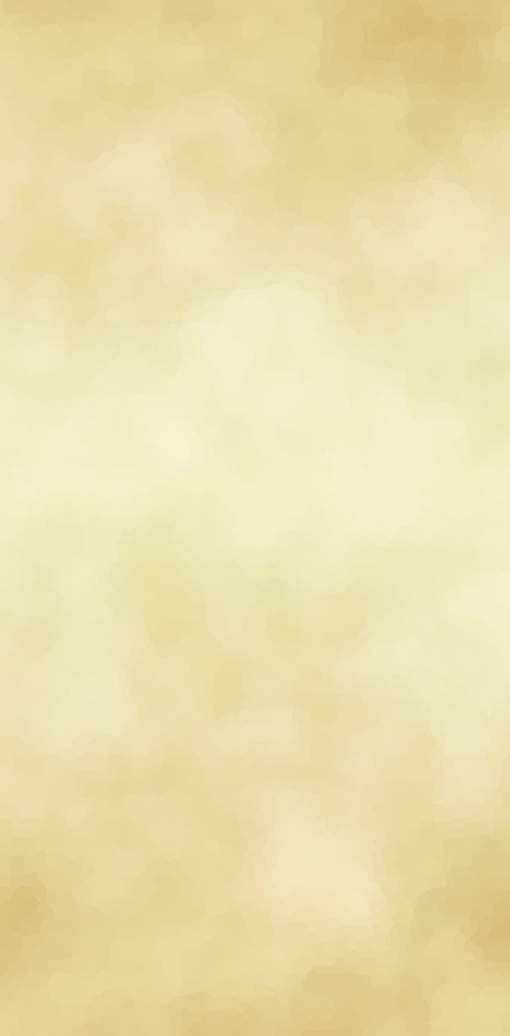
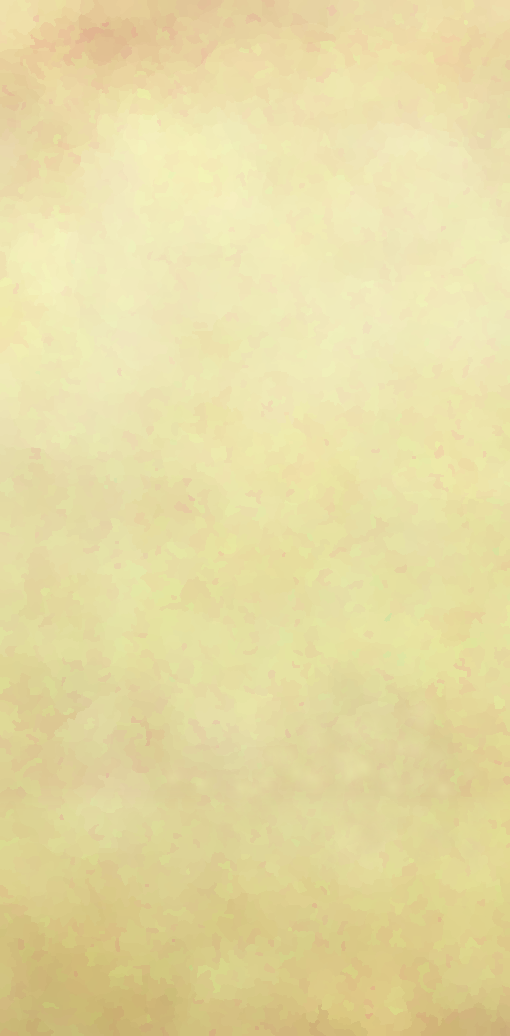
Updated title graphics

diff --git a/css/salem.min.css b/css/salem.min.css
@@ -1,1 +1,1 @@
-@font-face{font-family:CaslonAntique;src:url(../fonts/CaslonAntique.ttf);font-weight:500}@font-face{font-family:CaslonAntique;src:url(../fonts/CaslonAntique-Bold.ttf);font-weight:800}*{margin:0;padding:0}body{height:100vh;width:100vw;overflow:hidden;font-family:CaslonAntique,'Times New Roman',Times,serif;font-size:26px}h1{font-size:64px;font-weight:700;margin-top:20px;margin-bottom:10px}h2{margin-top:10px;margin-bottom:0}.h2-no-margin,h2{font-size:40px;font-weight:700}img.sound-image{margin:50px 0 30px 0}input[type=text]{background-color:#faf8ea;border:2px solid #000;padding-left:5px;font-family:inherit;font-size:28px;width:50%}input[type=text]::placeholder{font-style:italic;color:#bbb}.flex-vertical{display:flex;justify-content:flex-start;align-items:center;flex-direction:column}.spacer{height:25px}#root{background:url(../images/background.png) center/cover no-repeat;width:100%;height:100%}div.text-padding{padding:20px;width:calc(100% - 40px);height:calc(100% - 40px)}div.paragraph{margin:10px 20px;line-height:1.15}.nl_NL .page .condensed_nl{font-size:24px}.page{position:absolute;left:0;top:0;width:100%;height:100%;color:#361807}.page button{width:50%;height:40px;font-size:26px;background-color:#eac672;border-width:2px;border-color:#361807;box-shadow:0 10px 20px #00000030,0 6px 6px #0000003b}.page button,.page button.largebutton,.page button.squarebutton{margin-bottom:32px;font-family:inherit;background-repeat:no-repeat}.page button.spacer-top{margin-top:25px}.page button.rotated{transform:rotate(180deg)}.page button.largebutton{width:80%;height:100px}.page button.squarebutton{justify-self:center;margin:10px 5%;width:80%;height:80px}.page button.largebutton.confirm-yes{font-size:80px;color:#172;background-image:url(../images/confirm-yes.png);background-repeat:no-repeat;background-position:center center}.page button.largebutton.confirm-no{font-size:80px;color:#a24;background-image:url(../images/confirm-no.png);background-repeat:no-repeat;background-position:center center}.page button.icon-left{padding-left:24px;background-position:20px center}.page button.icon-right{padding-right:24px;background-position:calc(100% - 20px) center}.page button.icon-only,.page div.button-sized{background-position:center center;width:42px;padding-left:0;padding-right:0;margin-bottom:0}.page button.flag-nl{background-image:url(../images/flag-nl.png)}.page button.flag-de{background-image:url(../images/flag-de.png)}.page button.flag-us{background-image:url(../images/flag-us.png)}.page button.flag-fr{background-image:url(../images/flag-fr.png)}.page button.flag-es{background-image:url(../images/flag-es.png)}.page button.flag-it{background-image:url(../images/flag-it.png)}.page button.icon-pawn{background-image:url(../images/icon-pawn.png)}.page button.icon-gear{background-image:url(../images/icon-gear.png)}.page button.icon-lang{background-image:url(../images/icon-lang.png)}.page button.icon-back{background-image:url(../images/icon-back.png)}.page button.icon-forw{background-image:url(../images/icon-forw.png)}.page button.icon-move{background-image:url(../images/icon-move.png)}.page button.icon-exit{background-image:url(../images/icon-exit.png)}.page button.icon-rot{background-image:url(../images/icon-rot.png)}.page button.icon-trash{background-image:url(../images/icon-cross.png)}.page button.icon-checked{background-image:url(../images/icon-checked.png)}.page button.icon-unchecked{background-image:url(../images/icon-unchecked.png)}.buttonpair{width:80%;display:flex;justify-content:space-between}.buttonpair button{width:46%}#title-page{background:url(../images/overlay-title.png) center/contain no-repeat;justify-content:flex-end}#title-page button{margin-bottom:25px}#title-page button.last{margin-bottom:125px}#setup-page{background:url(../images/overlay-gear.png) -190px 120px no-repeat;padding-top:20px}#setup-players-page{background:url(../images/overlay-pawn.png) -190px 120px no-repeat;overflow-y:scroll}#setup-players-page .player-entry-item{display:flex;justify-content:space-between;margin-bottom:20px;width:80%}#setup-players-page .player-entry-item .staggered{position:relative;top:31px}#layout-list{width:100%;display:grid;grid-template-columns:1fr 1fr}#layout-list button.squarebutton{text-align:center;vertical-align:middle;line-height:0}#layout-list button.squarebutton.layout-1222::after{content:url(../images/tablelayout-1222.png)}#layout-list button.squarebutton.layout-2221::after{content:url(../images/tablelayout-2221.png)}#layout-list button.squarebutton.layout-1221::after{content:url(../images/tablelayout-1221.png)}#layout-list button.squarebutton.layout-2222::after{content:url(../images/tablelayout-2222.png)}#credits-page{background:url(../images/overlay-scroll.png) -290px 120px no-repeat;width:100%}#credits-page p::first-line{text-indent:0}#credits-page p{width:100%;margin:0;padding-left:20px;text-indent:-20px}#credits-page p span:first-child{font-style:italic}#night-page{background:url(../images/background-night.png) center/cover no-repeat}#night-subpage{background:url(../images/overlay-night.png) top/contain no-repeat;overflow-y:scroll;color:#eee}#player-list{width:100%;display:grid;grid-template-columns:1fr 1fr}#player-list .grid-wide{grid-column-start:1;grid-column-end:3;width:40%}#daytime-confess-page{background:url(../images/overlay-hourglass.png) -20vw/70vw no-repeat}
+@font-face{font-family:CaslonAntique;src:url(../fonts/CaslonAntique.ttf);font-weight:500}@font-face{font-family:CaslonAntique;src:url(../fonts/CaslonAntique-Bold.ttf);font-weight:800}*{margin:0;padding:0}body{height:100vh;width:100vw;overflow:hidden;font-family:CaslonAntique,'Times New Roman',Times,serif;font-size:26px}h1{font-size:64px;font-weight:700;margin-top:20px;margin-bottom:10px}h2{margin-top:10px;margin-bottom:0}.h2-no-margin,h2{font-size:40px;font-weight:700}img.sound-image{margin:50px 0 30px 0}input[type=text]{background-color:#faf8ea;border:2px solid #000;padding-left:5px;font-family:inherit;font-size:28px;width:50%}input[type=text]::placeholder{font-style:italic;color:#bbb}.flex-vertical{display:flex;justify-content:flex-start;align-items:center;flex-direction:column}.spacer{height:25px}#root{background:url(../images/background-daytime.png) center/cover no-repeat;width:100%;height:100%}div.text-padding{padding:20px;width:calc(100% - 40px);height:calc(100% - 40px)}div.paragraph{margin:10px 20px;line-height:1.15}.nl_NL .page .condensed_nl{font-size:24px}.page{position:absolute;left:0;top:0;width:100%;height:100%;color:#361807}.page button{width:50%;height:40px;font-size:26px;background-color:#eac672;border-width:2px;border-color:#361807;box-shadow:0 10px 20px #00000030,0 6px 6px #0000003b}.page button,.page button.largebutton,.page button.squarebutton{margin-bottom:32px;font-family:inherit;background-repeat:no-repeat}.page button.spacer-top{margin-top:25px}.page button.rotated{transform:rotate(180deg)}.page button.largebutton{width:80%;height:100px}.page button.squarebutton{justify-self:center;margin:10px 5%;width:80%;height:80px}.page button.largebutton.confirm-yes{font-size:80px;color:#172;background-image:url(../images/confirm-yes.png);background-repeat:no-repeat;background-position:center center}.page button.largebutton.confirm-no{font-size:80px;color:#a24;background-image:url(../images/confirm-no.png);background-repeat:no-repeat;background-position:center center}.page button.icon-left{padding-left:24px;background-position:20px center}.page button.icon-right{padding-right:24px;background-position:calc(100% - 20px) center}.page button.icon-only,.page div.button-sized{background-position:center center;width:42px;padding-left:0;padding-right:0;margin-bottom:0}.page button.flag-nl{background-image:url(../images/flag-nl.png)}.page button.flag-de{background-image:url(../images/flag-de.png)}.page button.flag-us{background-image:url(../images/flag-us.png)}.page button.flag-fr{background-image:url(../images/flag-fr.png)}.page button.flag-es{background-image:url(../images/flag-es.png)}.page button.flag-it{background-image:url(../images/flag-it.png)}.page button.icon-pawn{background-image:url(../images/icon-pawn.png)}.page button.icon-gear{background-image:url(../images/icon-gear.png)}.page button.icon-lang{background-image:url(../images/icon-lang.png)}.page button.icon-back{background-image:url(../images/icon-back.png)}.page button.icon-forw{background-image:url(../images/icon-forw.png)}.page button.icon-move{background-image:url(../images/icon-move.png)}.page button.icon-exit{background-image:url(../images/icon-exit.png)}.page button.icon-rot{background-image:url(../images/icon-rot.png)}.page button.icon-trash{background-image:url(../images/icon-cross.png)}.page button.icon-checked{background-image:url(../images/icon-checked.png)}.page button.icon-unchecked{background-image:url(../images/icon-unchecked.png)}.buttonpair{width:80%;display:flex;justify-content:space-between}.buttonpair button{width:46%}#title-page{background:url(../images/overlay-title.png) center/contain no-repeat;justify-content:flex-end}#title-page button{margin-bottom:25px}#title-page button.last{margin-bottom:125px}#setup-page{background:url(../images/overlay-gear.png) -190px 120px no-repeat;padding-top:20px}#setup-players-page{background:url(../images/overlay-pawn.png) -190px 120px no-repeat;overflow-y:scroll}#setup-players-page .player-entry-item{display:flex;justify-content:space-between;margin-bottom:20px;width:80%}#setup-players-page .player-entry-item .staggered{position:relative;top:31px}#layout-list{width:100%;display:grid;grid-template-columns:1fr 1fr}#layout-list button.squarebutton{text-align:center;vertical-align:middle;line-height:0}#layout-list button.squarebutton.layout-1222::after{content:url(../images/tablelayout-1222.png)}#layout-list button.squarebutton.layout-2221::after{content:url(../images/tablelayout-2221.png)}#layout-list button.squarebutton.layout-1221::after{content:url(../images/tablelayout-1221.png)}#layout-list button.squarebutton.layout-2222::after{content:url(../images/tablelayout-2222.png)}#credits-page{background:url(../images/overlay-scroll.png) -290px 120px no-repeat;width:100%}#credits-page p::first-line{text-indent:0}#credits-page p{width:100%;margin:0;padding-left:20px;text-indent:-20px}#credits-page p span:first-child{font-style:italic}#night-page{background:url(../images/background-night.png) center/cover no-repeat}#night-subpage{background:url(../images/overlay-night.png) top/contain no-repeat;overflow-y:scroll;color:#eee}#player-list{width:100%;display:grid;grid-template-columns:1fr 1fr}#player-list .grid-wide{grid-column-start:1;grid-column-end:3;width:40%}#daytime-confess-page{background:url(../images/overlay-hourglass.png) -20vw/70vw no-repeat}

diff --git a/css/salem.css b/css/salem.css
@@ -74,7 +74,7 @@ input[type=text]::placeholder {
 }
 
 #root {
-    background: url(../images/background.png) center / cover no-repeat;
+    background: url(../images/background-daytime.png) center / cover no-repeat;
     width: 100%;
     height: 100%;
 }
